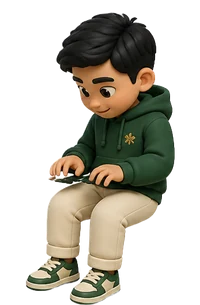
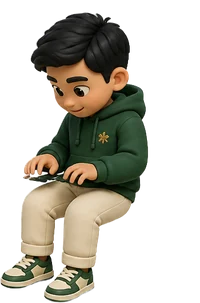
fix: stop the founder jumping off the chair mid-animation
Reported from the live site: the chair sat in one place and the movement
happened in another. The poses were padded to a shared frame by their
bounding-box centre, but the stretch pose throws both arms up and to the
side, which moves the bounding box without moving the body. Measured on
the feet, the anchor sat at x=77.6, 77.4 and 74.9 for the three desk poses
and x=51.1 for the stretch — a 26px sidestep, 13% of the frame, every time
he stretched.

Poses are now aligned on the body itself: the horizontal centre of the
bottom rows, which is the feet and stays put whatever the arms do. All four
now anchor within half a pixel of each other. The frame grew slightly to
leave room on both sides, so the placement percentages were recomputed
against it.

The backdrop also lost `aspect-[4/3] object-contain`. The render is
1168x880, very slightly off 4:3, so the box letterboxed it and the actor's
percentages were measured against the box rather than the picture inside
it. The image now sets its own ratio.

diff --git a/app/src/pages/startup/LiveOffice.tsx b/app/src/pages/startup/LiveOffice.tsx
@@ -32,8 +32,14 @@ const SRC: Record<Poza, string> = {
 /*
  * Personajning fon ichidagi o'rni — foizda, chunki sahna ekran eniga qarab
  * cho'ziladi. Raqamlar 1168x880 asl renderdagi stul ustida o'lchangan.
+ *
+ * POZALAR TANA LANGARI bo'yicha tekislangan, chegara markazi bo'yicha emas.
+ * Avval markaz olingandi va cho'zilish pozasida qo'llar yuqoriga ketgani
+ * uchun chegara siljib, personaj stuldan 26 px yon tomonga sakrardi —
+ * «stul boshqa tomonda, harakat boshqa tomonda» ko'rinardi. Langar — eng
+ * pastki qatorlar (oyoqlar) markazi, u har qanday pozada joyida qoladi.
  */
-const O_RIN = { left: "27.01%", top: "41.55%", width: "17.55%" };
+const O_RIN = { left: "30.94%", top: "41.62%", width: "17.66%" };
 
 /** Yozish kadri necha ms; tanaffus oralig'i va davomiyligi. */
 const YOZISH_KADR = 620;
@@ -76,7 +82,9 @@ export default function LiveOffice({ morale, className }: { morale: number; clas
         height={542}
         loading="eager"
         decoding="async"
-        className="aspect-[4/3] w-full object-contain"
+        /* Tabiiy nisbat: `aspect-[4/3]` + `object-contain` rasmni quti ichida
+           letterbox qilardi va foizlar rasmga emas, QUTIGA tushardi. */
+        className="block w-full"
       />
       {/*
         `alt=""`: xodim soni va kayfiyat sahna USTIDA matn bilan yozilgan,
